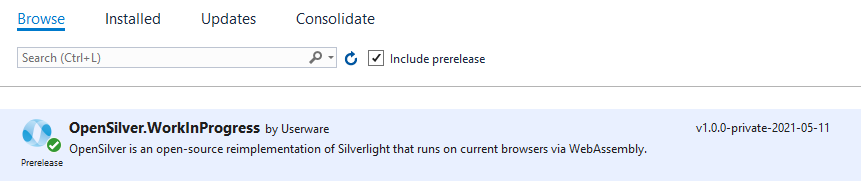
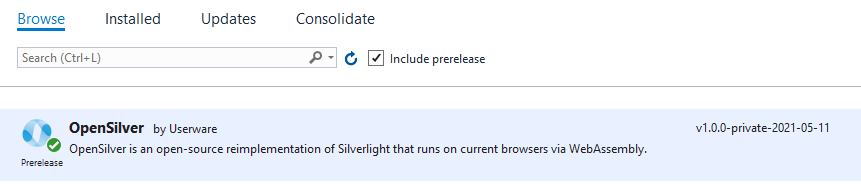
replace OpenSilver.WorkInProgress to OpenSilver

Changed region(s): [[0.151, 0.6186, 0.3926, 0.7113]]

diff --git a/docs/documentation/how-to-topics/include-private-package.html b/docs/documentation/how-to-topics/include-private-package.html
@@ -154,7 +154,7 @@
 </ul>
 <p>After <strong>Nuget.Config</strong> creation &quot;Package source&quot; will have one more option - &quot;PrivatePackages&quot;.</p>
 <p><img src="/images/package_sources.png" alt="Package Sources" title="Package Sources"></p>
-<p>If the option is selected then <strong>OpenSilver.WorkInProgress</strong> will appear in Browse tab. Make sure 'Include prerelease' is checked.</p>
+<p>If the option is selected then <strong>OpenSilver</strong> will appear in Browse tab. Make sure 'Include prerelease' is checked.</p>
 <p><img src="/images/browse.png" alt="Browse" title="Browse"></p>
 <ul>
 <li>Change .gitignore to be able to push to git.</li>

diff --git a/documentation/how-to-topics/include-private-package.md b/documentation/how-to-topics/include-private-package.md
@@ -28,7 +28,7 @@ After **Nuget.Config** creation "Package source" will have one more option - "Pr
 
 ![Package Sources](/images/package_sources.png "Package Sources")
 
-If the option is selected then **OpenSilver.WorkInProgress** will appear in Browse tab. Make sure 'Include prerelease' is checked.
+If the option is selected then **OpenSilver** will appear in Browse tab. Make sure 'Include prerelease' is checked.
 
 ![Browse](/images/browse.png "Browse")
 
